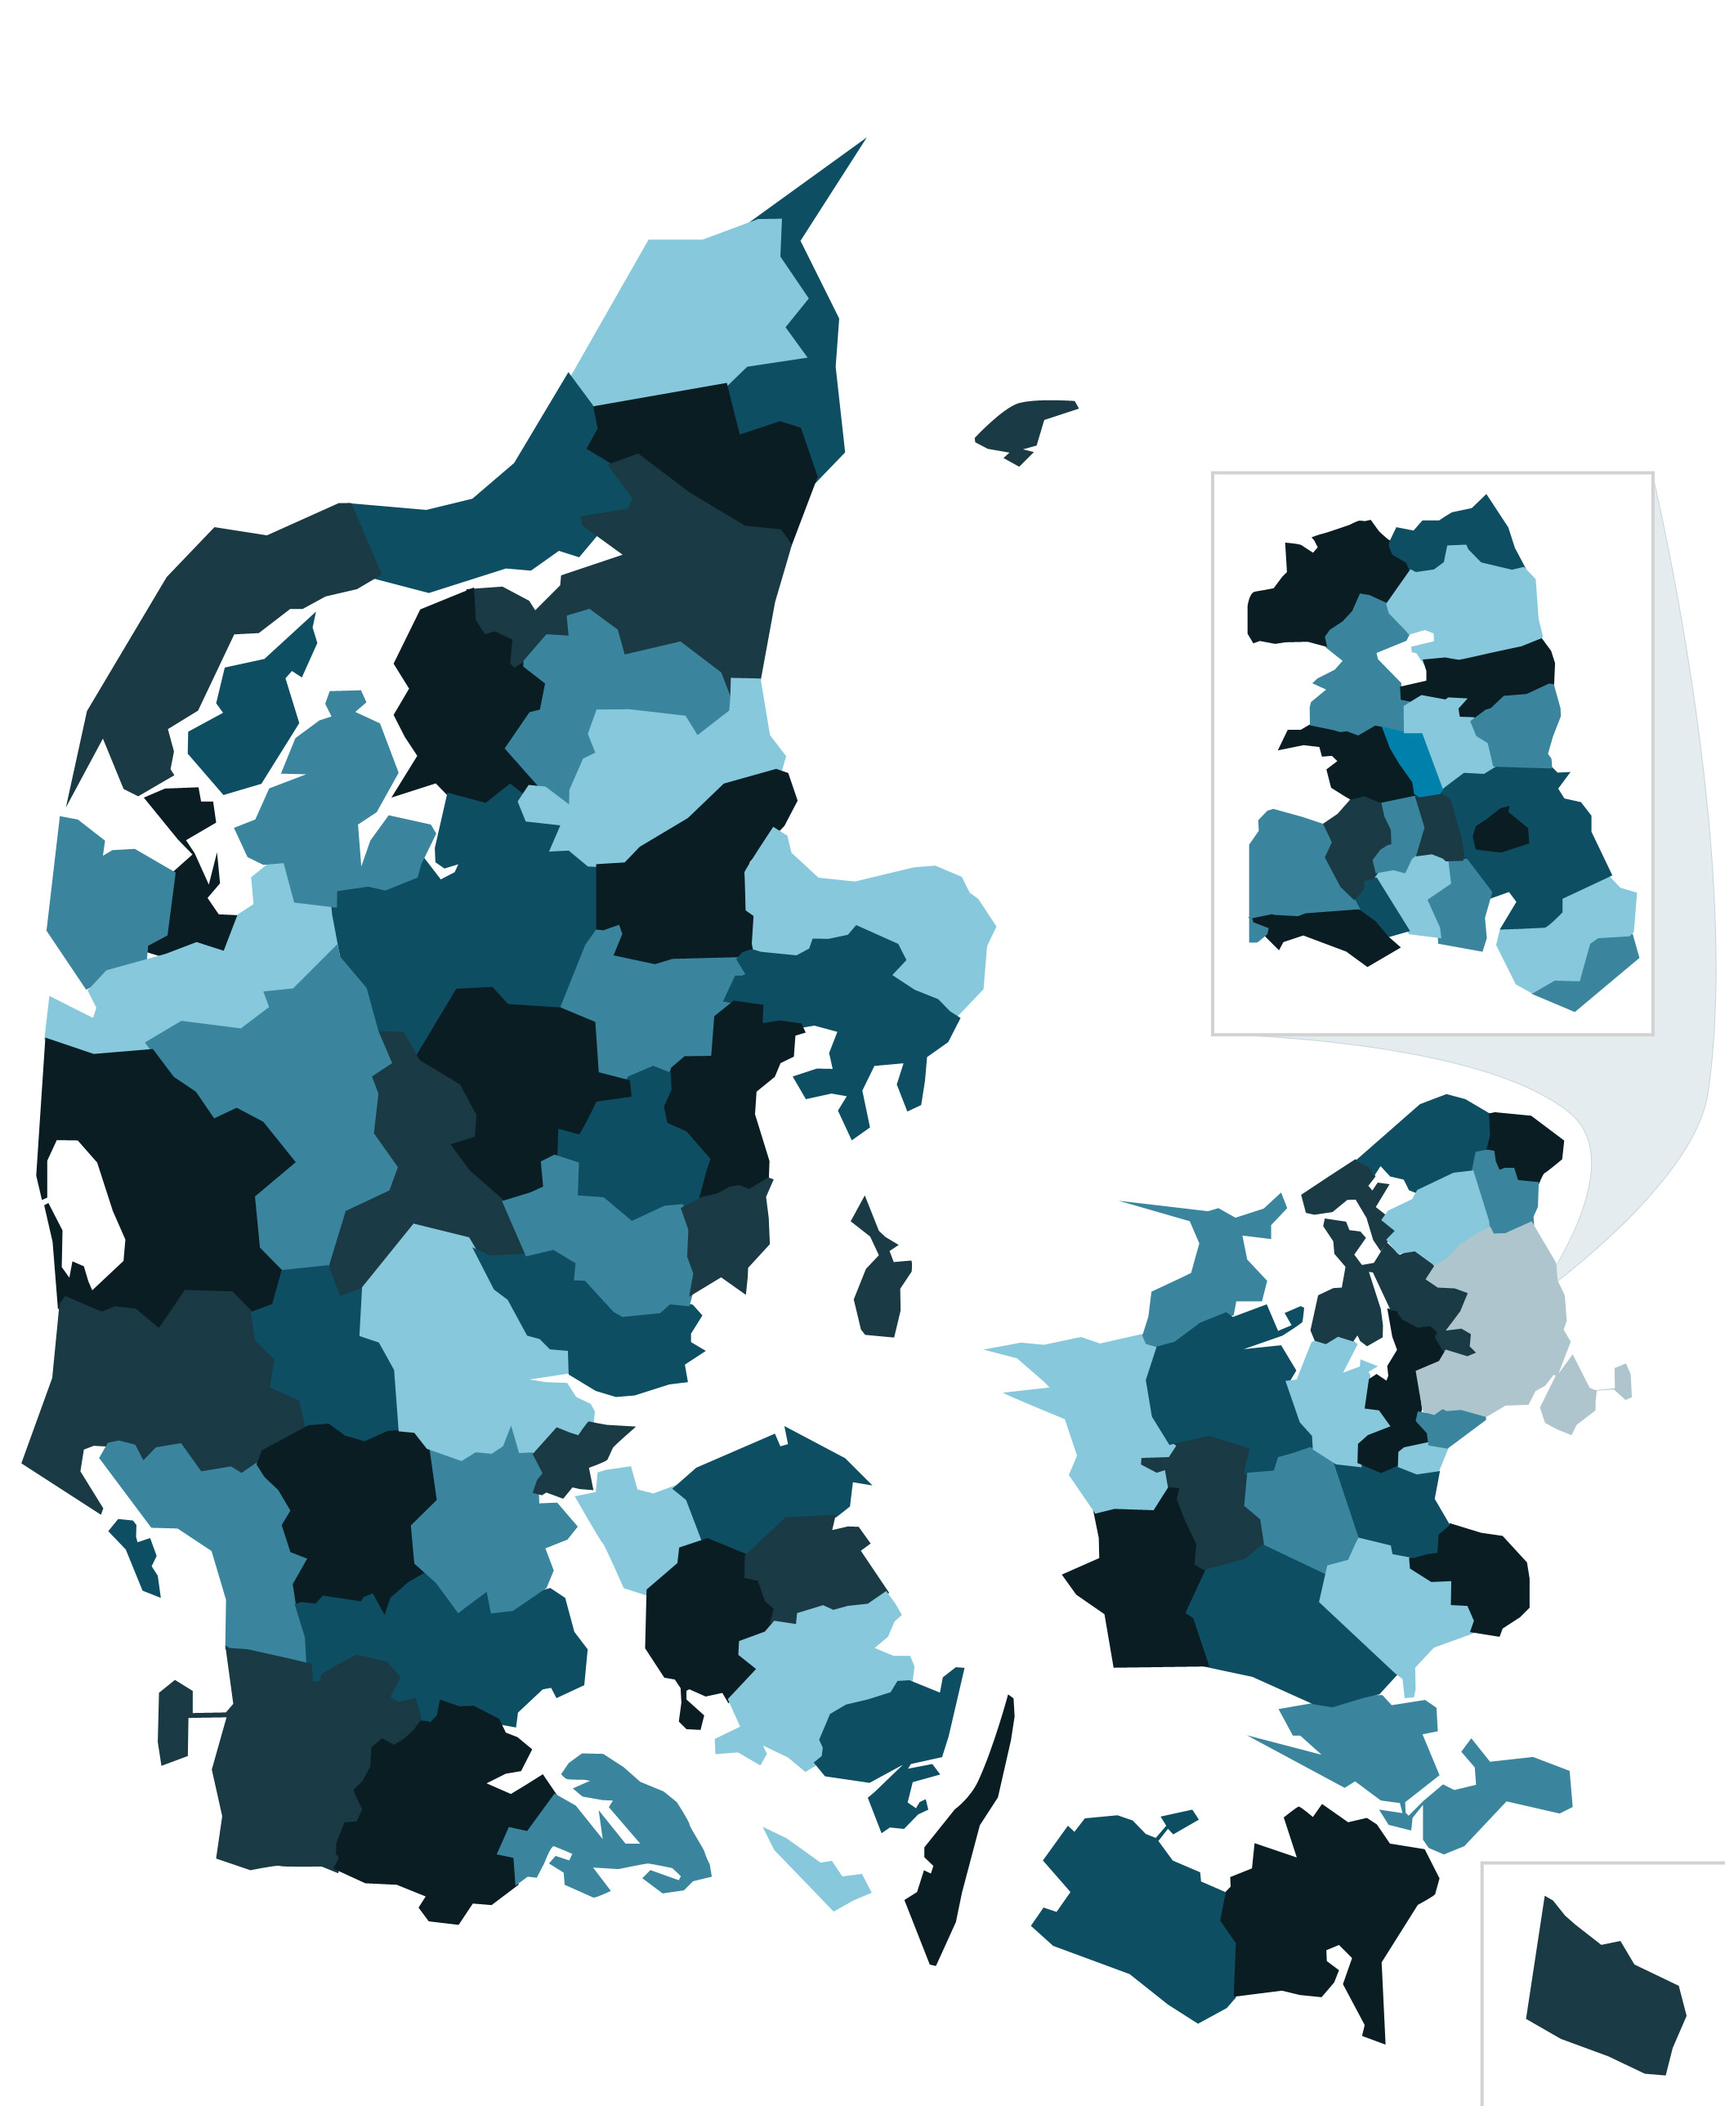
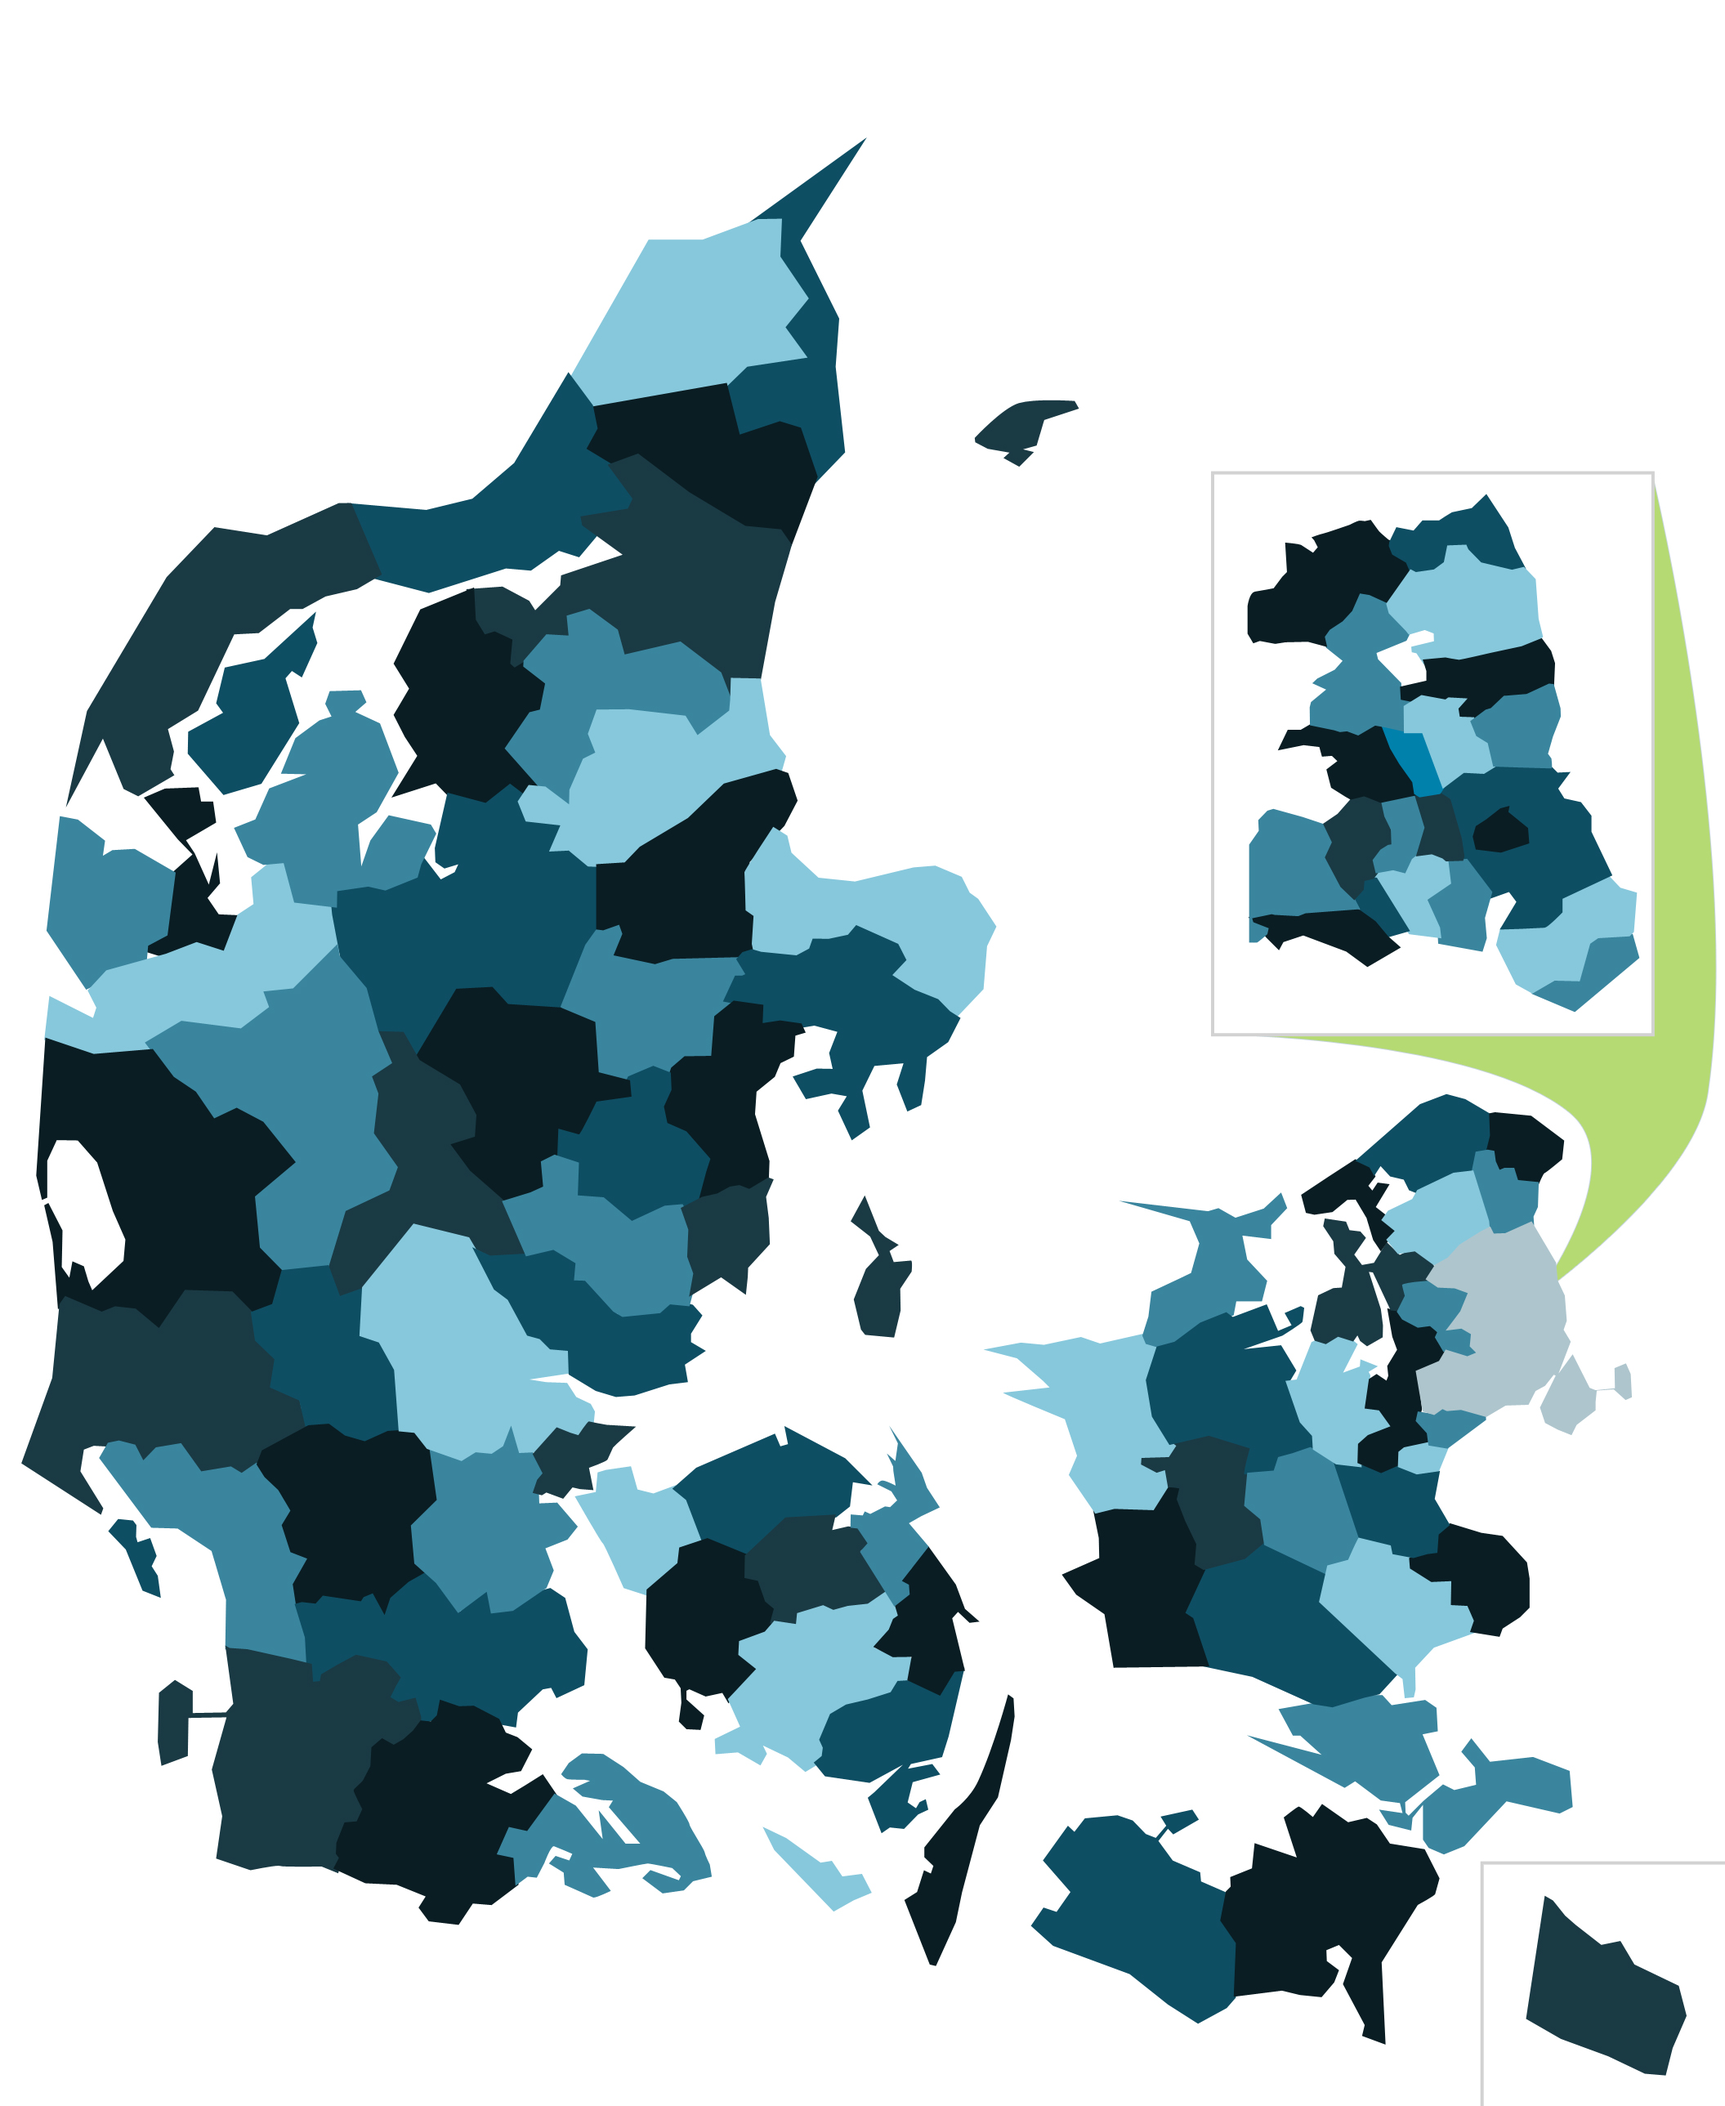
færdig med optegning af kommuner

diff --git a/map.html b/map.html
@@ -21,12 +21,13 @@
 <!----------------------------------------------------------------------------------------->
 <!----------------------------------------------------------------------------------------->
 
-  <area shape="poly" title="hjoerring, 0" coords="922,269,956,268,955,312,989,364,989,364,962,400,988,437,914,448,891,470,888,468,727,497,699,458,793,292,860,293,922,270" href="#" />
+  <area shape="poly" title="hjoerring" coords="922,269,956,268,955,312,989,364,989,364,962,400,988,437,914,448,891,470,888,468,727,497,699,458,793,292,860,293,922,270" href="#" />
    
-  <area shape="poly" title="frederikshavn, 1" coords="1061,167,920,269,956,269,955,313,990,364,963,400,989,436,915,448,891,471,906,531,954,515,980,523,1001,582,999,589,1033,553,1022,452,1027,389,979,294,1060,168" href="#" alt="frederikshavn" />
- <area shape="poly" title="frederikshavn, 1" coords="1320,499,1314,490,1263,490,1246,493,1234,499,1220,509,1207,520,1193,535,1193,540,1209,549,1234,553,1229,560,1247,571,1264,553,1250,549,1268,545,1278,513,1320,499" href="#" alt="frederikshavn" />  
+  <area shape="poly" title="frederikshavn" coords="1061,167,920,269,956,269,955,313,990,364,963,400,989,436,915,448,891,471,906,531,954,515,980,523,1001,582,999,589,1033,553,1022,452,1027,389,979,294,1060,168" href="#" alt="frederikshavn" />
+  
+ <area shape="poly" title="leso" coords="1320,499,1314,490,1263,490,1246,493,1234,499,1220,509,1207,520,1193,535,1193,540,1209,549,1234,553,1229,560,1247,571,1264,553,1250,549,1268,545,1278,513,1320,499" href="#" alt="frederikshavn" />  
 
-  <area shape="poly" title="bronderslev, 2" coords="726,497,731,523,718,549,747,567,780,554,838,597,880,623,911,643,955,647,969,665,997,591,1000,587,980,523,953,515,906,530,890,470,887,468,726,497" href="#" />
+  <area shape="poly" title="bronderslev" coords="726,497,731,523,718,549,747,567,780,554,838,597,880,623,911,643,955,647,969,665,997,591,1000,587,980,523,953,515,906,530,890,470,887,468,726,497" href="#" />
   
   <area shape="poly" title="aalborg" coords="762,679,712,642,710,632,769,622,773,612,744,568,781,554,836,595,872,618,901,636,911,643,954,647,969,664,956,709,948,736,943,765,936,801,931,830,894,829,893,848,883,822,832,784,764,800,756,771,721,745,694,753,695,777,667,776,640,807,640,810,630,815,625,812,626,782,605,772,593,776,582,758,580,719,615,718,645,733,649,738,654,746,685,716,686,704,763,679" href="#" />
  
@@ -126,6 +127,9 @@
 
 <area shape="poly" title="langeland" coords="1131,2260,1167,2214,1191,2190,1209,2147,1227,2094,1233,2073,1240,2077,1241,2099,1236,2134,1221,2199,1197,2236,1169,2351,1145,2404,1138,2404,1107,2324,1122,2315,1130,2289,1138,2291,1140,2284,1132,2273,1130,2260" href="#" />
 
+<area shape="poly" title="nyborg" coords="1113,2026,1091,2027,1071,2017,1086,1996,1092,1980,1098,1975,1095,1965,1113,1951,1112,1939,1103,1934,1121,1911,1136,1892,1157,1922,1170,1939,1176,1956,1180,1966,1198,1984,1186,1985,1172,1972,1166,1980,1180,2038,1169,2041,1159,2046,1152,2051,1151,2062,1150,2071,1134,2065,1123,2059,1117,2057,1119,2037" href="#" />
+
+<area shape="poly" title="kerteminde" coords="1066,1887,1050,1868,1040,1868,1041,1852,1056,1854,1057,1849,1065,1852,1083,1843,1089,1843,1097,1836,1091,1824,1074,1816,1076,1812,1081,1811,1095,1817,1093,1804,1092,1793,1085,1778,1095,1786,1098,1766,1088,1746,1090,1747,1101,1763,1109,1775,1118,1787,1126,1800,1129,1807,1134,1820,1143,1835,1149,1844,1127,1854,1113,1863,1124,1877,1136,1892,1123,1908,1113,1920,1103,1935,1112,1939,1113,1950,1097,1963,1078,1934,1062,1908,1055,1898" href="#" />
 
 
 <!----------------------------------------------------------------------------------------->
@@ -175,6 +179,12 @@
 <area shape="poly" title="fredensborg" coords="1823,1490,1803,1433,1802,1433,1806,1408,1820,1405,1827,1407,1836,1430,1852,1428,1858,1443,1883,1447,1883,1455,1881,1477,1877,1487,1876,1497,1874,1494,1842,1509,1828,1508,1823,1502" href="#" />
 
 <area shape="poly" title="helsingor" coords="1837,1430,1827,1407,1820,1407,1823,1389,1823,1362,1829,1360,1874,1365,1914,1394,1912,1419,1889,1435,1883,1447,1858,1444,1853,1429" href="#" />
+
+<area shape="poly" title="halsnes" coords="1659,1468,1648,1468,1631,1483,1608,1486,1598,1483,1592,1461,1623,1441,1659,1418,1670,1424,1683,1437,1675,1450,1679,1456,1685,1447,1700,1449,1692,1462,1684,1476,1695,1485,1691,1491,1706,1505,1695,1517,1695,1520,1689,1530,1679,1518,1674,1496,1667,1480" href="#" />
+
+<area shape="poly" title="frederikssund" coords="1642,1575,1646,1550,1632,1534,1631,1518,1619,1500,1621,1490,1647,1494,1651,1505,1665,1506,1671,1514,1658,1534,1667,1547,1682,1545,1695,1520,1713,1535,1728,1531,1739,1537,1754,1548,1745,1565,1743,1567,1723,1569,1716,1570,1718,1584,1710,1603,1707,1605,1699,1601,1689,1576,1684,1565,1680,1559,1676,1557,1676,1561,1686,1590,1690,1602,1691,1615,1692,1629,1691,1637,1673,1646,1665,1642,1662,1634,1658,1637,1657,1641,1637,1636,1633,1638,1623,1643,1615,1642,1609,1640,1603,1628,1612,1584,1623,1579,1633,1575" href="#" />
+
+<area shape="poly" title="egedal" coords="1733,1624,1708,1607,1718,1586,1717,1569,1744,1567,1746,1567,1759,1575,1781,1576,1795,1582,1787,1605,1769,1628,1789,1626,1799,1632,1799,1647,1805,1654,1795,1659,1767,1651,1756,1634,1757,1632,1754,1624,1749,1622" href="#" />
 
 <!----------------------------------------------------------------------------------------->
 <!-------------------------------------- BORNHOLM ----------------------------------------->
@@ -228,30 +238,35 @@
 <area shape="poly" title="taarnby" coords="1855,1205,1831,1156,1835,1137,1893,1134,1912,1117,1912,1099,1970,1073,1983,1086,2003,1092,1999,1140,1994,1145,1956,1147,1947,1153,1941,1173,1933,1201,1901,1200,1876,1215" href="#" />
 
 <area shape="poly" title="dragor" coords="1934,1202,1948,1153,1956,1148,1987,1147,1993,1146,1998,1141,2006,1171,1927,1237,1877,1216,1900,1201" href="#" />
+
 </map>
-<div id='infobox' style='width:600px;height:1500px;border:solid 10px #000;position:absolute;top:190px;left:2110px; display:block;'>
-		<div id="caption-header" style="font-style: italic; font-weight: bold; margin-bottom: 12px;"></div>
-		<div id="caption-text"></div>
-        <div id="caption-text-2"></div>
-</div>
 
 <script type="text/javascript">
-					//<div id="beatles-caption" style="clear:both;border: 1px solid black; width: 400px; padding: 6px; display:none;">
-					 //<div id="beatles-caption-header" style="font-style: italic; font-weight: bold; margin-bottom: 12px;"></div>
-					// <div id="beatles-caption-text"></div>
-					//</div>
-	var h="kaffe";
-	
-	
 	
 $(document).ready(function ()
 {	
+		var captiontext = "TEXTYTEXT";
+		var svar1 = "svar1";
+		var svar2 = "svar2";
+		var svar3 = "svar3";
+		var svar4 = "svar4";
+		var svar5 = "svar5";
+		
 
-            captions = {
 				
+	
+				
+            captions = {
                 hjoerring: ["Hjørring Kommune",
-                    h,
-					   "<img src='liv.png' />"],
+				             captiontext,
+							 "<img src='liv.png' />",
+							 svar1,
+							 svar2,
+							 svar3,
+							 svar4,
+							 svar5
+							 ],
+				
                 frederikshavn: ["Frederikshavn Kommune",
                   "Dear Prudence was written by John and Paul about Mia Farrow's sister, Prudence, "
                     + "when she wouldn't come out and play with Mia and the Beatles at a religious retreat "
@@ -268,25 +283,38 @@ $(document).ready(function ()
 	
 	$('#dkMap').mapster({
 	isSelectable : false,
-	render_highlight : { altImage : 'danmarkskort_lys.jpg' },
+	render_highlight : { altImage : 'danmarkskort-lys.jpg' },
     mapKey: 'title',
-	fill : true, altImage : 'danmarkskort_lys.jpg',
+	fill : true, altImage : 'danmarkskort-lys.jpg',
 	fillColor : '555fff',
 	fillOpacity : 1,
 	stroke : true,
 	strokeColor : '000000',
 	strokeWidth : 10,
 	onMouseover: function(data) {
+						$('body').append("<div id='infobox' style='width:600px;height:1500px;border:solid 10px #000;position:absolute;top:190px;left:2110px; display:block;'>"
+										+ "<div id='caption-header' style='font-style: italic; font-weight: bold; margin-bottom: 12px;'></div>"
+										+ "<div id='caption-text'></div>"
+										+ "<div id='picture'></div>"
+										+ "<div id='svar1'></div>"
+										+ "<div id='svar2'></div>"
+										+ "<div id='svar3'></div>"
+										+ "<div id='svar4'></div>"
+										+ "<div id='svar5'></div></div>");
 						$('#caption-header').text(captions[data.key][0]);
                     	$('#caption-text').text(captions[data.key][1]);
-						$('#caption-text-2').append(captions[data.key][2]);
+						$('#picture').append(captions[data.key][2]);
+						$('#svar1').text(captions[data.key][3]);
+						$('#svar2').text(captions[data.key][4]);
+						$('#svar3').text(captions[data.key][5]);
+						$('#svar4').text(captions[data.key][6]);
+						$('#svar5').text(captions[data.key][7]);
 						$('#infobox').show();				
 						//document.getElementById('infobox').innerHTML=data.key;
 
                 },
 	onMouseout: function(data) {
-                    $('#infobox').remove('#img');
-					$("#infobox").hide();
+					$("#infobox").remove();
 					
                 },
 	
